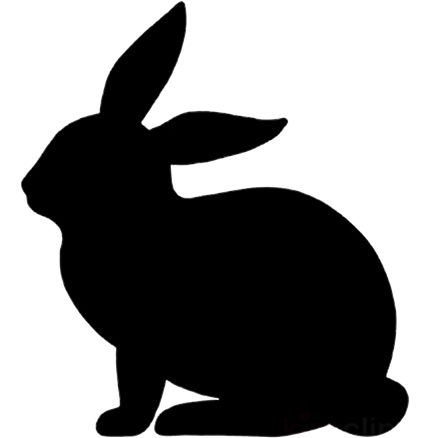
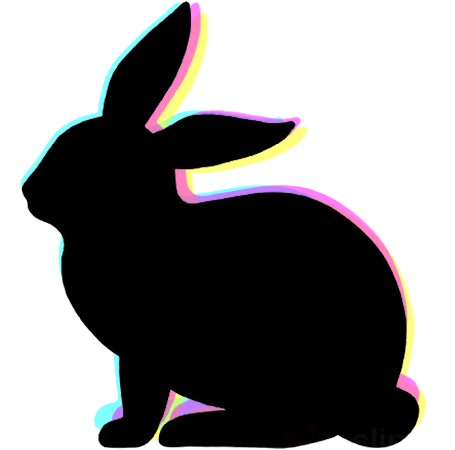
rabbit CMYK and text CMYK

diff --git a/styles.css b/styles.css
@@ -306,6 +306,6 @@ img {
 /* Apply to body and all text descendants; slight offsets and tiny blur */
 body, body * {
     text-shadow: 2.6px 0.6px 0.4px var(--cmyk-c),
-                 1.2px 0.6px 0.4px var(--cmyk-m),
+                 1.2px 0.6px 1.4px var(--cmyk-m),
                  -1.8px 0.9px 0.4px var(--cmyk-y);
 }
